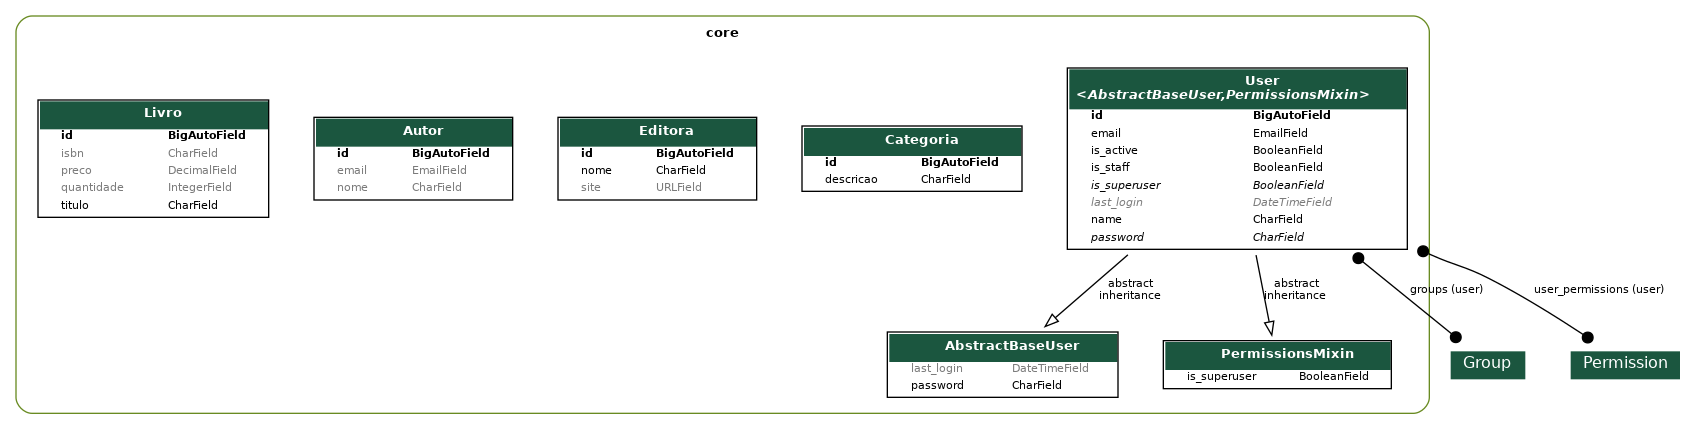
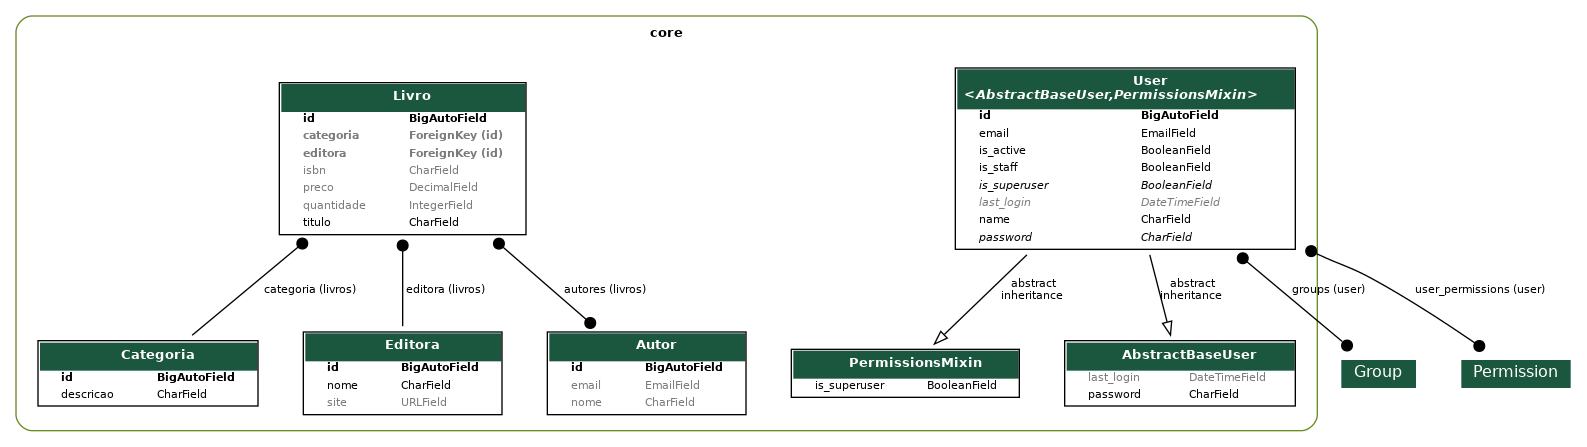
Incluindo relacionamento n para n no modelo do Livro

diff --git a/core/migrations/0007_livro_categoria_livro_editora.py b/core/migrations/0007_livro_categoria_livro_editora.py
@@ -1,0 +1,36 @@
+# Generated by Django 5.0.2 on 2024-07-30 12:09
+
+import django.db.models.deletion
+from django.db import migrations, models
+
+
+class Migration(migrations.Migration):
+
+    dependencies = [
+        ("core", "0006_livro_remove_autor_descricao_autor_email_autor_nome"),
+    ]
+
+    operations = [
+        migrations.AddField(
+            model_name="livro",
+            name="categoria",
+            field=models.ForeignKey(
+                blank=True,
+                null=True,
+                on_delete=django.db.models.deletion.PROTECT,
+                related_name="livros",
+                to="core.categoria",
+            ),
+        ),
+        migrations.AddField(
+            model_name="livro",
+            name="editora",
+            field=models.ForeignKey(
+                blank=True,
+                null=True,
+                on_delete=django.db.models.deletion.PROTECT,
+                related_name="livros",
+                to="core.editora",
+            ),
+        ),
+    ]

diff --git a/core/models/livro.py b/core/models/livro.py
@@ -1,4 +1,7 @@
 from django.db import models
+from .categoria import Categoria
+from .editora import Editora
+from .autor import Autor
 
 
 class Livro(models.Model):
@@ -6,6 +9,12 @@ class Livro(models.Model):
     isbn = models.CharField(max_length=32, null=True, blank=True)
     quantidade = models.IntegerField(default=0,  null=True, blank=True)
     preco = models.DecimalField(max_digits=7, decimal_places=2, default=0, null=True, blank=True)
+    autores = models.ManyToManyField(Autor, related_name="livros")
+    editora = models.ForeignKey(Editora, on_delete=models.PROTECT, related_name="livros", null=True, blank=True)
+    categoria = models.ForeignKey(
+        Categoria, on_delete=models.PROTECT, related_name="livros", null=True, blank=True
+    )
+
 
     def __str__(self):
         return f"({self.id}) {self.titulo} ({self.quantidade})"

diff --git a/core/migrations/0008_livro_autores.py b/core/migrations/0008_livro_autores.py
@@ -1,0 +1,18 @@
+# Generated by Django 5.0.2 on 2024-07-30 12:23
+
+from django.db import migrations, models
+
+
+class Migration(migrations.Migration):
+
+    dependencies = [
+        ("core", "0007_livro_categoria_livro_editora"),
+    ]
+
+    operations = [
+        migrations.AddField(
+            model_name="livro",
+            name="autores",
+            field=models.ManyToManyField(related_name="livros", to="core.autor"),
+        ),
+    ]
